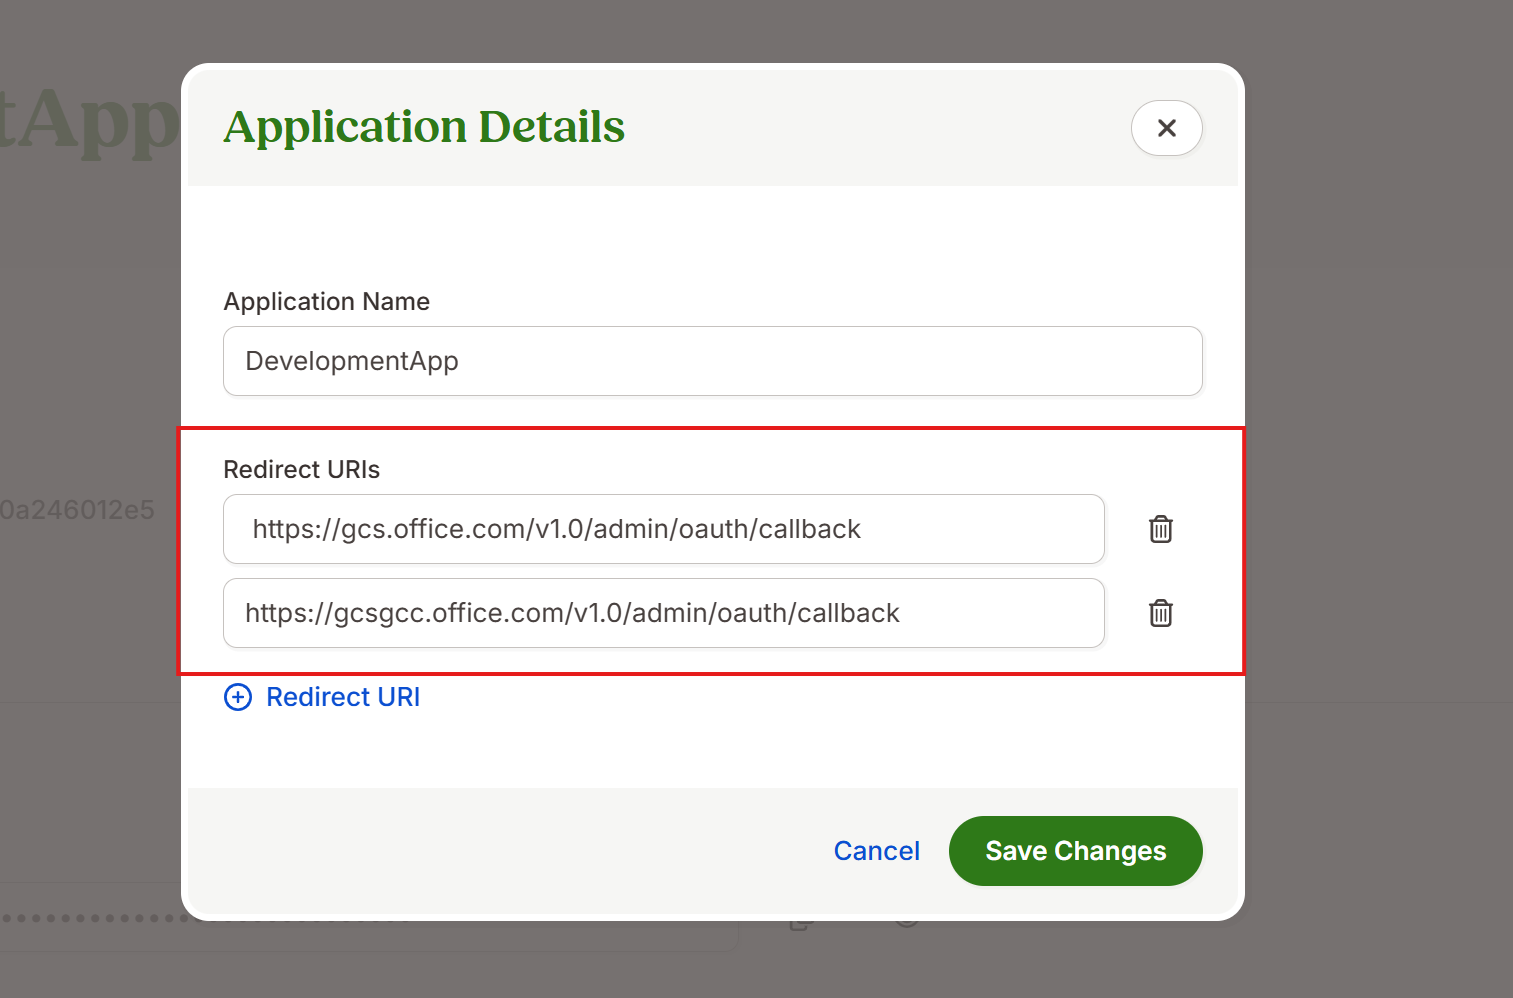
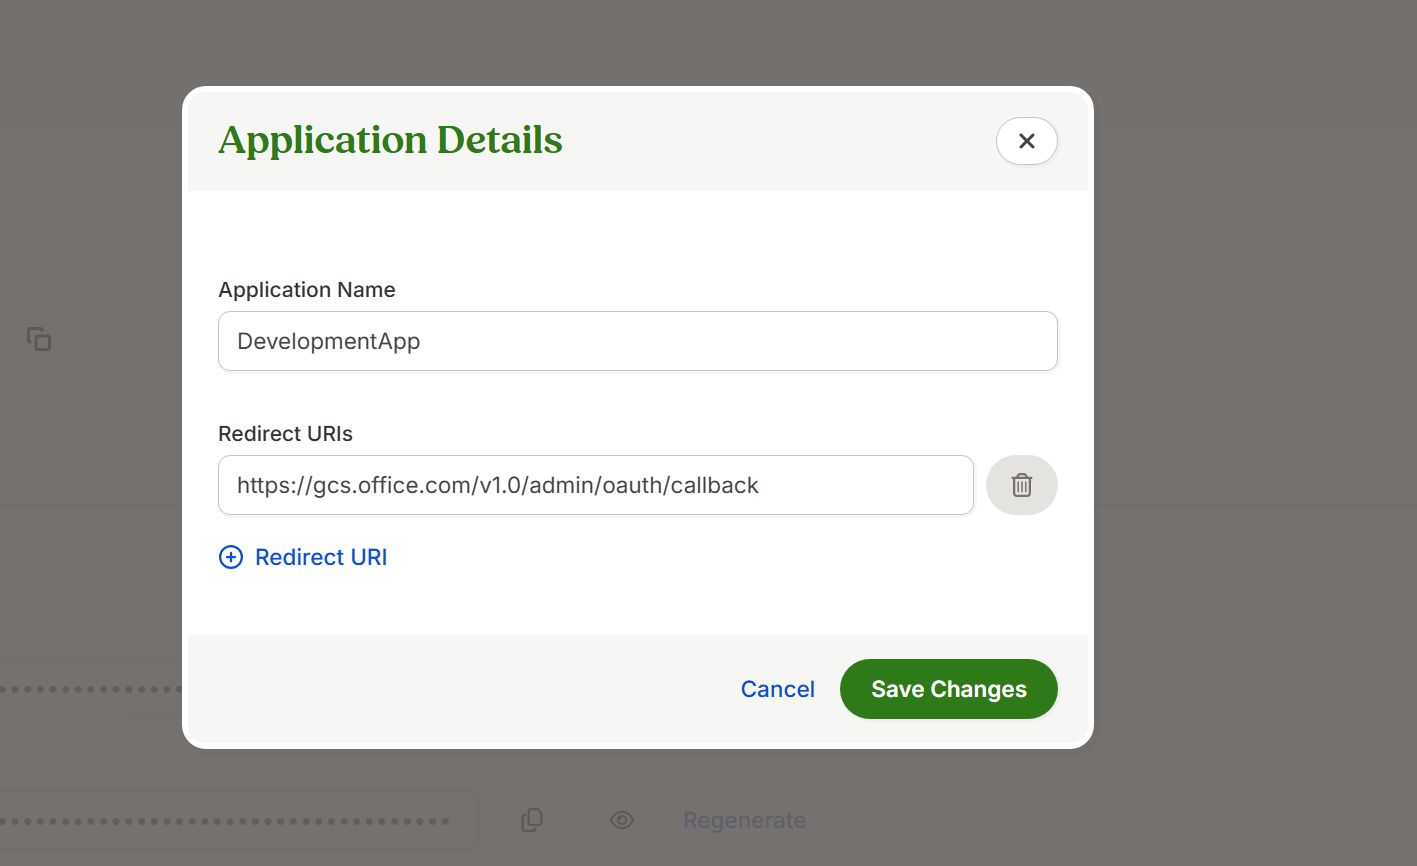
Update docs

Changed region(s): [[0.0932, 0.0624, 0.8384, 0.9353], [0.0, 0.3741, 0.0311, 0.4053]]

diff --git a/MicrosoftSearch/bamboohr-connector.md b/MicrosoftSearch/bamboohr-connector.md
@@ -18,19 +18,20 @@ ms.date: 04/07/2025
 
 # BambooHR Microsoft Graph connector
 
-With the Microsoft Graph connector, your organization in M365 can index profiles that are accessible to anyone in BambooHR, using Microsoft Copilot and Search. 
+The BambooHR Microsoft Copilot People connector allows organizations to index profiles from BambooHR into Microsoft Graph, making them accessible across Microsoft 365 experiences, including Microsoft 365 Copilot. 
 
-This documentation is for Microsoft 365 administrators or anyone who configures, runs, and monitors the BambooHR Microsoft Graph connector. 
+This guide is for Microsoft 365 administrators or anyone responsible for configuring, managing, and monitoring the BambooHR Microsoft Copilot People connector. 
+
 
 ## Capabilities
+The BambooHR People connector enables the following capabilities:
 
-- Access BambooHR profiles using the power of Semantic search
-- Customize your crawl frequency 
-- Create workflows using this connection and plugins from Microsoft Copilot Studio
+- Index profile information from BambooHR.
+- Enable your end users to ask questions related to BambooHR profiles. 
+- Use [Semantic search](https://learn.microsoft.com/en-us/microsoftsearch/semantic-index-for-copilot) in Copilot to enable users to find relevant profiles based on keywords, personal preferences, and social connections. 
 
 
 ## Limitations
-
 
 - Time off, documents, benefits, trainings, assets, notes, emergency, onboarding, offboarding, and custom properties are not indexable.  
 
@@ -53,8 +54,6 @@ Configure a BambooHR app with a unique App name
 Add the following links into the "Redirect URLs" field in the App details section:   
 
 For M365 Enterprise, copy and paste: https://gcs.office.com/v1.0/admin/oauth/callback 
-
-For M365 Government, copy and paste: https://gcsgcc.office.com/v1.0/admin/oauth/callback 
 
  ![Screenshot of App Details.](media/bamboohr-connector/bamboohr-appdetails.png)
  ![Screenshot of Direct Urls form.](media/bamboohr-connector/bamboohr-redirecturis.png)
@@ -85,8 +84,6 @@ Employee:
 
             employee_directory, 
 
-            sensitive_employee:address, 
-
 Miscellaneous: 
 
             app, 
@@ -116,9 +113,11 @@ Navigate to the app credentials section to get the App client id and App client 
 
 ## Get started
 
+[Add BambooHR people connector.](https://admin.microsoft.com/adminportal/home?#/MicrosoftSearch/Connectors/add)
+
 ### 1. Choose a display name
 
-Choose a display name that helps users easily recognize associated profiles in a Copilot response. 
+Choose a display name e.g., BambooHR Profiles, that helps users easily recognize associated profiles in a Copilot response.
 
 ### 2. Add the instance URL
 
@@ -128,13 +127,65 @@ Enter your BambooHR instance URL e.g., https://contoso.bamboohr.com/
 
 Select OAuth 2.0 from list of authentication types, and enter the client id and client secret from BambooHR App portal.
 
-### 4. Roll out to a limited audience
+<br>
+For other settings like Access permissions, Schema, and Crawl frequency, we have set defaults based on what works best with BambooHR people data. The default values are: 
 
-Deploy this connection to a limited user base to validate it in Copilot and other search surfaces before you roll it out to a broader audience.
+
+| Users ||
+| :--- | :--- |
+| Access permissions | Data is visible to everyone. |
+| Map identities | Data source identities mapped using Microsoft Entra IDs. |
+
+<br>
+
+| Source Property | Description | [Property in Microsoft 365 User Profile Schema](https://learn.microsoft.com/en-us/graph/api/resources/profile?view=graph-rest-beta) |
+| :--- | :--- | :--- |
+| First Name | Employee's First Name | names->first |
+| Last Name | Employee's Last Name | names->last |
+| Name | Employee's Full Names | names->displayName |
+| Email | Employee's Work Email Address | emails->address[type='work']<br><br>*Note: Email is converted to the Microsoft Entra objectId of the end user and is used for internal processing.* |
+| Birth Date | Employee's Date of Birth | anniversaries->date[type='birthday'] |
+| Job Information Department | Employee's Job Department e.g., Human Resources | positions->detail->company->department |
+| Job Information Division | Employee's Job Division e.g., North America | position->detail->company->division |
+| Employee Number | Employee's Number | position->detail->employeeId |
+| Employee Eeid | Employee's ID in BambooHR | webAccounts->userId<br><br>*Note: The employee's eeid is also utilized internally to periodically check for any updates for a given Employee in BambooHR.* |
+| Employment Status | Employee's Status e.g., Full-Time, Contractor Etc. | position->detail->employeeType |
+| Original Hire Date Time | Employee's data of hire | anniversaries->date[type='originalHireDate'] |
+| Job Information Job Title | Employee's Job Title e.g., Senior HR Administrator | positions->detail->jobTitle |
+| Supervisor Id | Employee's Manager Identifier | positions->manager->userId<br><br>*Note: The supervisor ID is used to find the supervisor's email, which is then converted to the Microsoft Entra objectId of the manager for internal processing.* |
+| Mobile Phone | Employee's Mobile Phone | phones->number(type=mobile) |
+| Work Phone | Employee's Work Phone | phones->number(type=work) |
+| Job Information Location | Employee's Office Location | positions->positionDetail->companyDetail->officeLocation |
+| Status | Employee's Status e.g., Active or Inactive | N/A<br><br>*Note: Internal use for filtering inactive employees, ensuring they are excluded from BambooHR data retrieval.* |
+
+<br> 
+
+
+| Sync ||
+| :--- | :--- |
+| Incremental Crawl | Frequency: Every 15 minutes. |
+| Full Crawl | Frequency: Every day. |
+
 
 ## Custom setup
 
-Custom setup is not supported for this connector. 
+Custom setup is for admins who want to edit the default values for settings. When you choose Custom setup, you see other three tabs: Users, Content and Sync.
+
+**Users**
+
+The BambooHR people connector only supports data visible to Everyone. This means indexed data appears in the search results for all users.
+The people connector only supports mapping your data source identities with Microsoft Entra ID by checking whether the email address of BambooHR profiles is the same as UserPrincipalName (UPN), or Mail of users in Microsoft Entra ID. 
+
+
+**Content**
+
+The people connector does not support the addition of new properties or the removal of existing properties on this tab. Within this tab, there is a property named AnnotationSerialized that encompasses all the default properties previously mentioned.
+
+
+**Sync**
+
+The refresh interval determines how often your data is synced between the data source and the people connector index. There are two types of refresh intervals – full crawl and incremental crawl. For more information, see [refresh settings](https://learn.microsoft.com/en-us/microsoftsearch/configure-connector#guidelines-for-sync-settings).
+
 
 ## Troubleshooting
 
